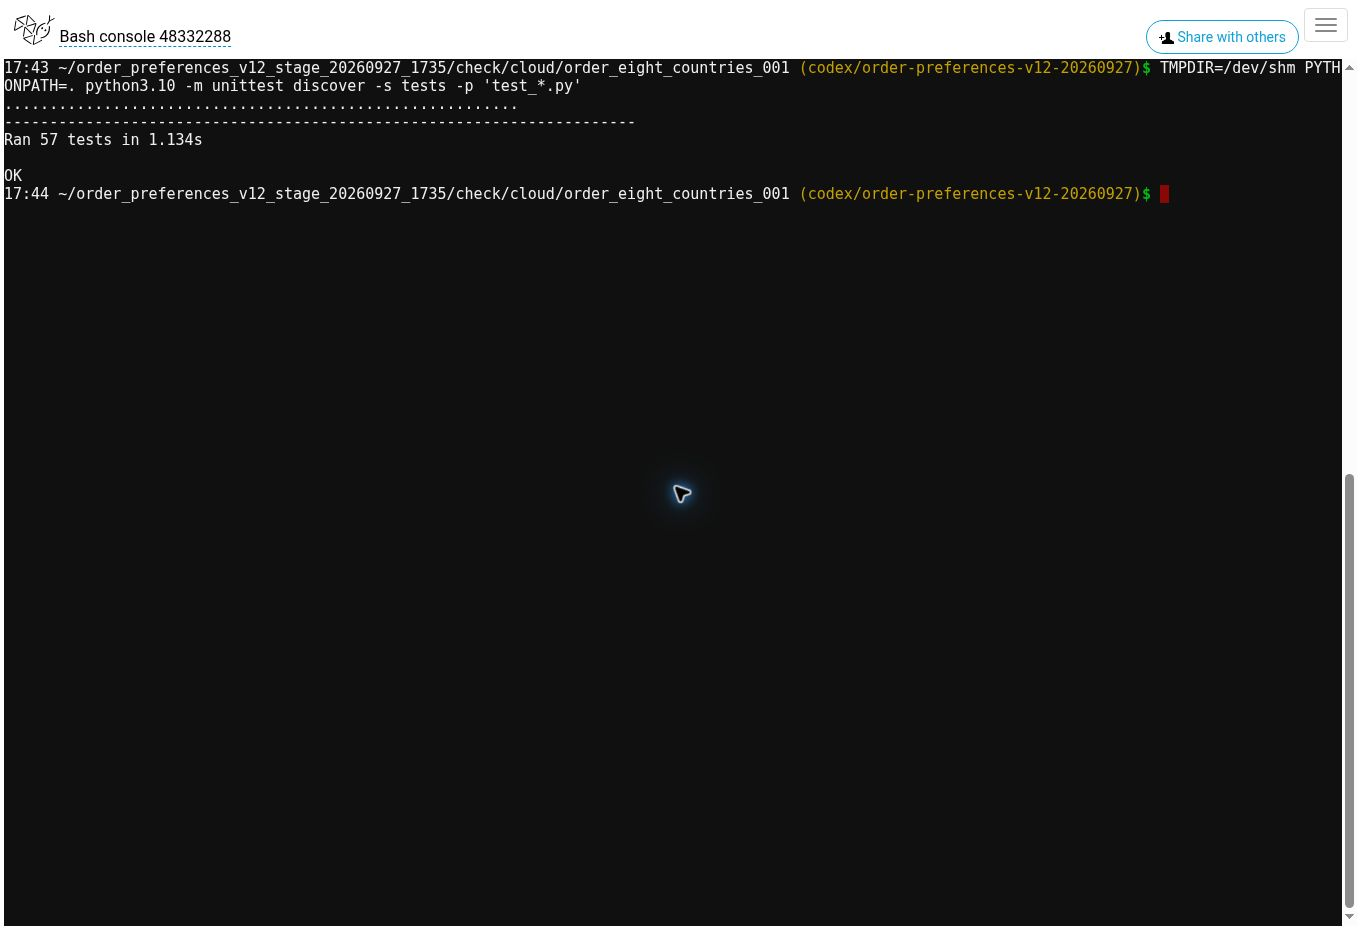
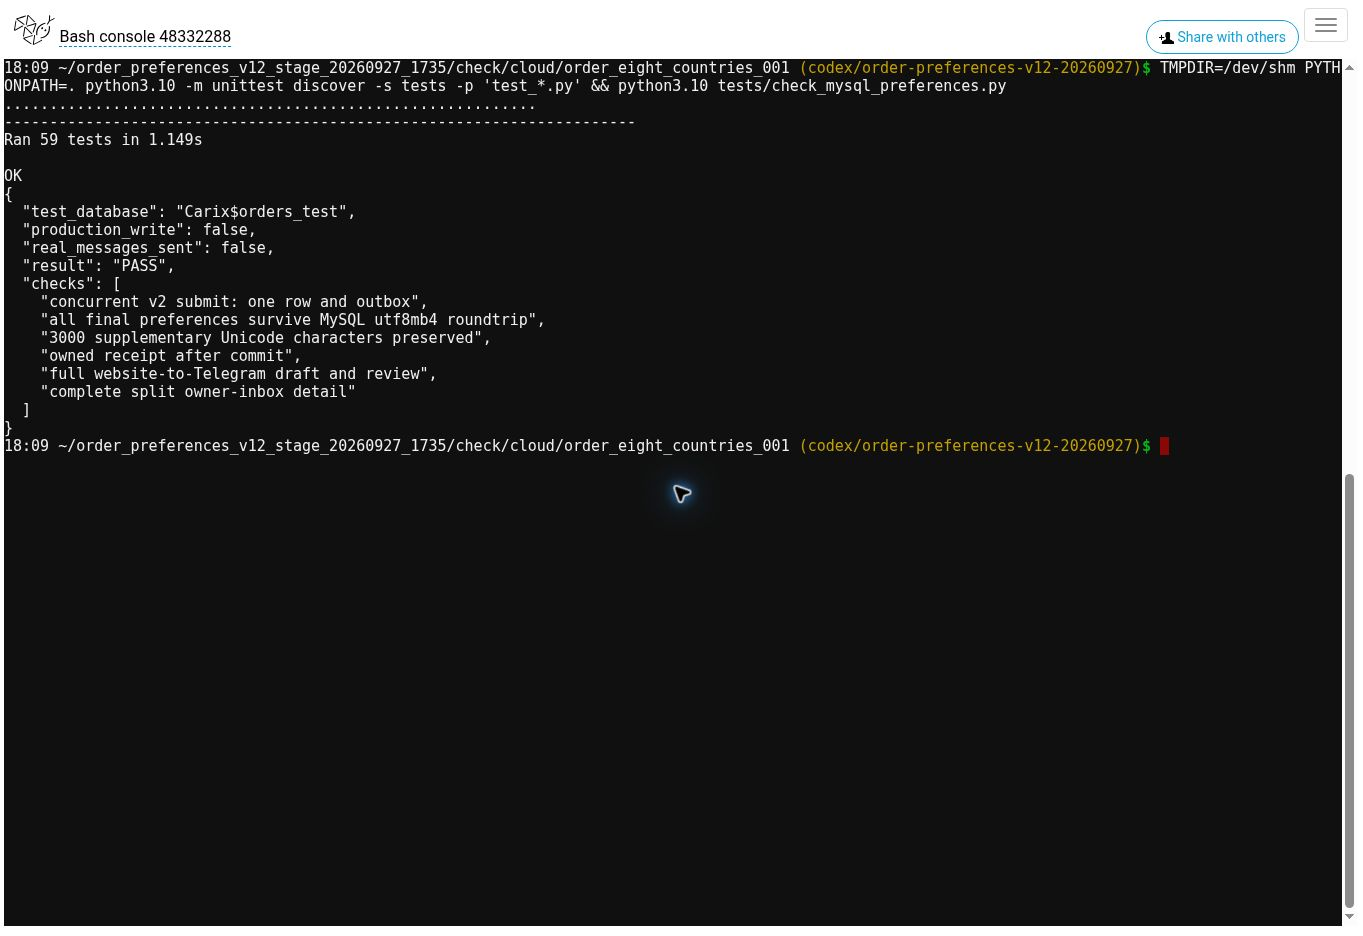
Record final automated acceptance and remaining mobile gate

diff --git a/cloud/order_eight_countries_001/PREFERENCES_V12.md b/cloud/order_eight_countries_001/PREFERENCES_V12.md
@@ -2,11 +2,14 @@
 
 Изменения подготовлены для существующей формы `/video/podbor.html`.
 Production не изменён. Публикация остаётся отдельным шагом после Gate B и команды владельца, как в согласованном ТЗ.
+Этап разработки и автоматических проверок завершён. Gate B остаётся открытым только по визуальной мобильной приёмке; её успешное прохождение не заявляется.
 
 ## Что меняется
 
 - Основная информация: страна подбора, марка, модели, максимальный бюджет USD, кузов, годы от/до, максимальный пробег, Украина/Грузия и город доставки, имя, способ связи и контакт.
 - Дополнительный раскрываемый блок: топливо, привод, объём от/до, желаемые цвета, срок покупки, пожелания/ссылки до 3 000 символов. Заполняется по необходимости.
+- У текста пожеланий есть видимый счётчик; превышение 3 000 символов объясняется до отправки, введённый текст сохраняется для исправления. Подсчёт Unicode согласован с сервером. Озвучивание счётчика выполняется после паузы во вводе.
+- У цветов есть образцы с рамкой, текстовые подписи и независимые нативные галочки. «Другой цвет» без уточнения разрешён. Ручные страна, марка, модель и город принимают до 120 символов.
 - Восемь направлений сохранены в существующем порядке. Есть другая страна, другая марка, другая модель и другой город. Справочник содержит 68 марок и 1 239 основных современных и исторических моделей. Это курируемый список, а не заявление о полном охвате всех мировых региональных названий. «Другая модель» позволяет передать отсутствующее название.
 - Все 40 карточек связаны со структурированными пресетами. Марка/модель изменяемы. Повторный выбор той же карточки сохраняет правки. Другая карточка меняет направление/марку/модели; остальные ручные пожелания сохраняются, включая намеренное очищение поля.
 - Текущие карточки не задают максимальный бюджет, предельный пробег или цвет. Эти параметры остаются пустыми. Для категории японской классики передаётся явно указанная граница 1980–1990; марка и модель остаются для выбора клиента.
@@ -25,7 +28,7 @@ Production не изменён. Публикация остаётся отдел
 
 Новых production-зависимостей и внешних запросов при заполнении формы нет. Для проверки DOM в изолированной тестовой директории используется jsdom 26.1.0; на сервер он не устанавливается. Telegram-тесты используют уже применяемую в проекте PTB 22.8 и заглушенный транспорт.
 
-Схема `ua_order_request.v2` хранится в существующем JSON-поле БД. Миграции таблиц нет. v1 и старый сценарий подбора в боте продолжают поддерживаться. Полная заявка сохраняется до показа успеха. Повтор с тем же UUID возвращает одну квитанцию. Длинные уведомления разбиваются без обрезания; доставка в Telegram остаётся at-least-once с тем же номером заявки.
+Транспорт `ua_order_request.v2` хранится в существующем JSON-поле БД. Дополнительные критерии записываются один раз в `preferences` с `schema_version: 1`, `criteria` и `priority`; важность — `preferred` / `required_for_search`. Существующее свободное поле `comment` сохраняет своё имя, год и пробег не дублируются. Миграции таблиц нет. v1 и старый сценарий подбора в боте продолжают поддерживаться. Полная заявка сохраняется до показа успеха. Повтор с тем же UUID возвращает одну квитанцию. Длинные уведомления разбиваются без обрезания; доставка в Telegram остаётся at-least-once с тем же номером заявки.
 
 Перенос v2 в Telegram сохраняет все поля, показывает полный просмотр и позволяет подтвердить заявку. Изменение расширенной анкеты выполняется в прежней вкладке формы; бот объясняет это. Браузерный черновик живёт 30 минут. Открытие ссылки в другом браузере не обещает восстановить локальный черновик.
 
@@ -37,16 +40,16 @@ HTML для контрольной сборки получен с действу
 
 ## Проверено
 
-- 57 Python-тестов: старые и новые заявки, фактическая запись в отдельную SQLite БД, v2 handoff, подтверждение в боте, права личной папки, повторы, длинный Unicode-текст, ошибки, установка и откат.
-- Те же 57 тестов пройдены на сервере с Python 3.10 / PTB 22.8, на коммите `a78e483`. Временные SQLite-файлы размещены на локальном `/dev/shm` (tmpfs): серверный `/tmp` находится на NFS и правильно блокируется защитой runtime. Защита не отключалась, рабочая конфигурация не менялась. Подтверждение: [снимок консоли](evidence/server-tests.jpg).
+- 59 Python-тестов: старые и новые заявки, фактическая запись в отдельную SQLite БД, v2 handoff, подтверждение в боте, права личной папки, повторы, длинный Unicode-текст, вложенная схема пожеланий, границы 120/121 символ, ошибки, установка и откат.
+- Те же 59 тестов пройдены на сервере с Python 3.10 / PTB 22.8, на коммите `c53f133`. Временные SQLite-файлы размещены на локальном `/dev/shm` (tmpfs): серверный `/tmp` находится на NFS и правильно блокируется защитой runtime. Защита не отключалась, рабочая конфигурация не менялась. Подтверждение: [снимок консоли](evidence/server-tests.jpg).
 - Интеграционная проверка на отдельной MySQL-базе `Carix$orders_test`: восемь конкурентных отправок дают одну заявку и одну запись очереди; все v2-поля и 3 000 дополнительных Unicode-символов сохраняются; квитанция доступна владельцу; перенос в бот, просмотр и полное уведомление личной папки работают. Проверка удаляет только собственные тестовые записи. Рабочая БД и реальный Telegram-транспорт не используются.
 - Чистые JS-тесты: 40 карточек, ручные изменения/очищение, повторный выбор, зависимость модели от марки, числовые форматы и итоговые значения.
-- DOM-тест производственных модулей: все три языка, поиск и выбор, цвета, ручной бюджет/пробег, диапазоны, раскрытие дополнительных полей при ошибке, просмотр/правка и повтор неизменённого запроса после потери ответа.
+- DOM-тест производственных модулей: все три языка, поиск и выбор, подписи и образцы цветов, ручной бюджет/пробег, диапазоны, счётчик 3 000 Unicode-символов и ошибка на 3 001 без обрезания, сохранение доступных подсказок после ошибки, раскрытие дополнительных полей, просмотр/правка и повтор неизменённого запроса после потери ответа.
 - Сборка на копии действующей страницы и контрольное восстановление файлов в отдельном каталоге. Боевая БД и реальные чаты не используются.
 
 Визуальная проверка Safari/iPhone и реального мобильного браузера **не закрыта**. Браузер среды заблокировал переход к локальному HTML по политике URL. DOM-проверки не заменяют визуальную проверку. `preview_preferences.py` создаёт автономную интерактивную форму с тестовыми ответами API и без сетевой отправки заявок; её можно открыть отдельно для просмотра.
 
-При продолжении приёмки проверены правила CSS для узкого экрана. Убраны автоматические минимумы колонок у вложенных сеток; ширина полей ограничена контейнером. Ниже 600 px диапазоны «от/до» и списки с галочками расположены в одну колонку. Длинные подписи, ссылки и названия выбранных моделей переносятся, а не скрываются через `overflow-x: hidden`. Версия только CSS поднята до `20260927.4`. Повторно пройдены пять тестов установки/отката и полный DOM-сценарий на трёх языках; backend не изменён. Это проверка кода, не доказательство отображения на устройстве.
+Проверены правила CSS для узкого экрана. Убраны автоматические минимумы колонок у вложенных сеток; ширина полей ограничена контейнером. Ниже 600 px диапазоны «от/до» и списки с галочками расположены в одну колонку. Длинные подписи, ссылки и названия выбранных моделей переносятся, а не скрываются через `overflow-x: hidden`. Итоговая версия ресурсов формы — `20260927.5`. Это проверка кода, не доказательство отображения на устройстве.
 
 ### Оставшаяся мобильная приёмка
 
@@ -108,5 +111,7 @@ python3.10 tests/check_mysql_preferences.py
 - Toyota: выборочная сверка современных названий и дополнение локального списка: https://www.toyota.com/all-vehicles/
 - W3C: перенос содержимого при ширине 320 CSS px: https://www.w3.org/WAI/WCAG22/Understanding/reflow.html
 - MDN: `fr` вне `minmax()` подразумевает автоматическую минимальную ширину: https://developer.mozilla.org/en-US/docs/Web/CSS/Reference/Properties/grid-template-columns
+- GOV.UK Design System: видимый счётчик, сохранение текста при превышении и озвучивание после паузы: https://design-system.service.gov.uk/components/character-count/
+- W3C: значение и выбор не передаются только цветом: https://www.w3.org/WAI/WCAG22/Understanding/use-of-color.html
 
 Эти источники подтверждают выбранные способы реализации и отдельные названия; они не означают автоматическую проверку каждого из 1 239 наименований.
